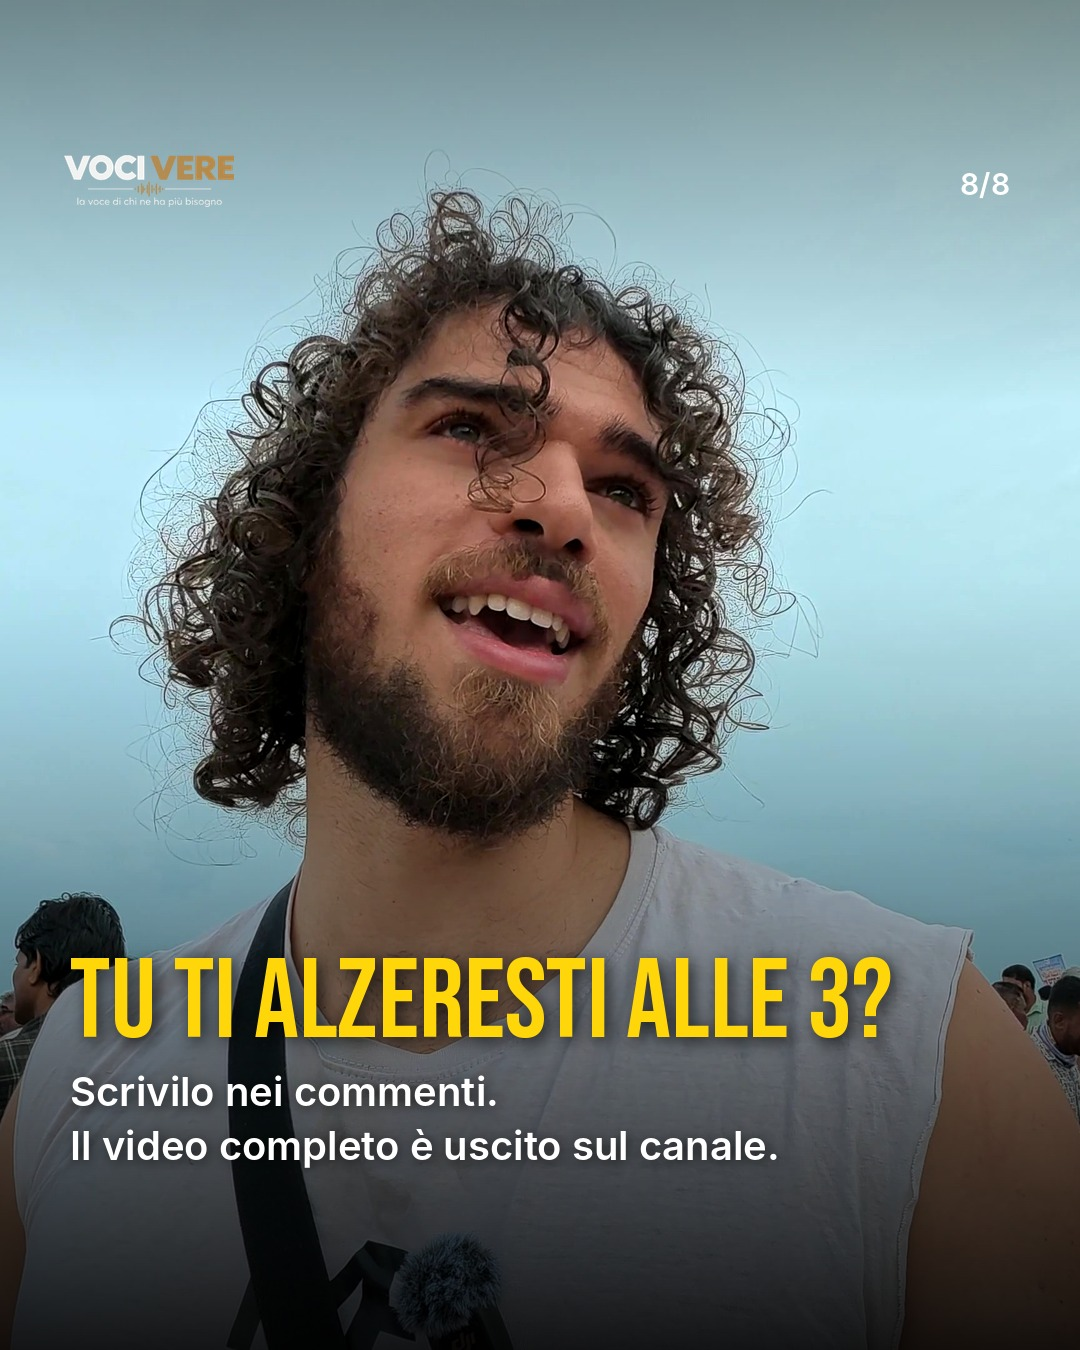
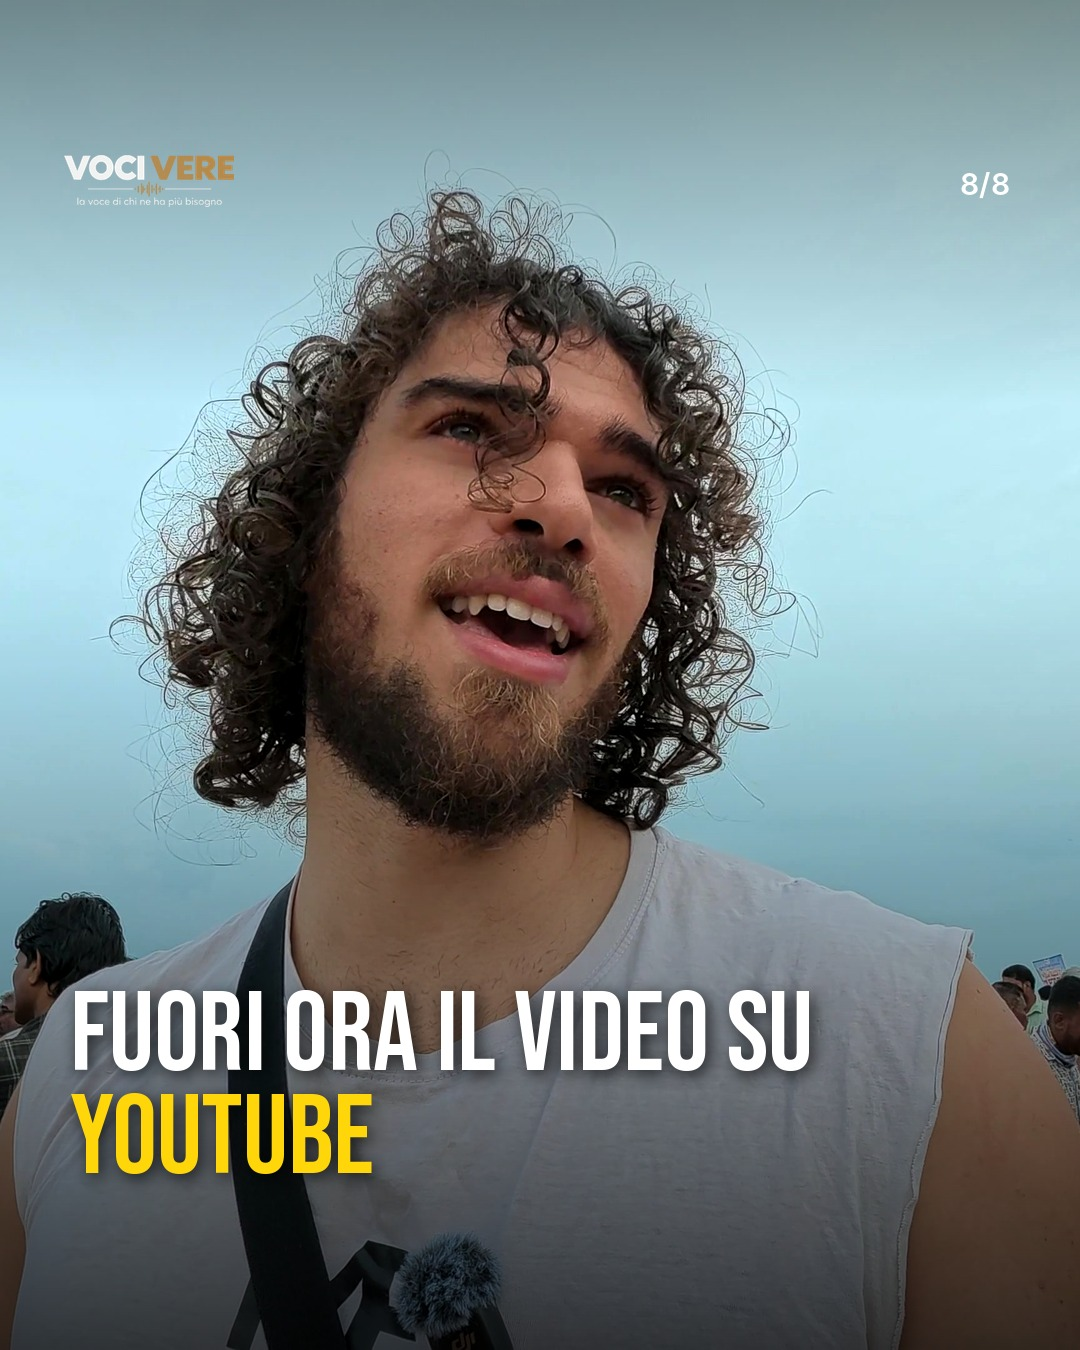
Caroselli: ultima slide solo 'Fuori ora il video su YouTube'
Claude-Session: https://claude.ai/code/session_01NyVAZXcjQG4pUS9Hfqt7Ga

Changed region(s): [[0.0, 0.6844, 1.0, 1.0]]

diff --git a/copioni/caroselli/carosello.py b/copioni/caroselli/carosello.py
@@ -98,8 +98,7 @@ build('mercato',[
       body='Ghiaccio nei cesti: il pesce deve partire finché è fresco.'),
  dict(photo=C+'m/m_136.jpg',crop=(.43,0,1.0,0.86),title='«Un posto in pace»',hl=YEL,
       body='Cristiani, induisti, musulmani: qui vivono insieme, ci racconta.'),
- dict(photo='work/thumb/m_3m47.5.jpg',crop=(.5,.5,1.0,1.0),title='Tu ti alzeresti alle 3?',hl=YEL,
-      body='Scrivilo nei commenti.\nIl video completo è uscito sul canale.'),
+ dict(photo='work/thumb/m_3m47.5.jpg',crop=(.5,.5,1.0,1.0),title='Fuori ora il video su YouTube',hl=YEL),
 ])
 build('arthunkal',[
  dict(photo=C+'a/a_090733_0296.jpg',cover=True,crop=(.75,.5,1.0,1.0),title='13 km pregando, senza mai fermarsi',hl=YEL,
@@ -116,6 +115,5 @@ build('arthunkal',[
       body='L\'arrivo, la mattina, davanti alla basilica di Sant\'Andrea.'),
  dict(photo=C+'a/a_090825_0298.jpg',crop=(.47,.5,1.0,1.0),title='Un pezzo d\'Italia',hl=YEL,
       body='La chiesa la ricostruisce nel 1584 un gesuita italiano, il «padre bianco». La statua di San Sebastiano arriva da Milano nel 1647.'),
- dict(photo=C+'a/a_093557_0316.jpg',crop=(.45,.5,1.0,1.0),title='Cammineresti 13 km di notte pregando?',hl=YEL,
-      body='Scrivi SÌ o NO nei commenti.\nIl video completo è uscito sul canale.'),
+ dict(photo=C+'a/a_093557_0316.jpg',crop=(.45,.5,1.0,1.0),title='Fuori ora il video su YouTube',hl=YEL),
 ])

diff --git a/regole/copy.md b/regole/copy.md
@@ -53,7 +53,7 @@ Consegna di Copy per ogni lungo, appena Montaggio chiude il montato (Manuel, 25/
 Carosello di ogni lungo (Manuel, 25/10): 7-8 immagini 4:5 (1080x1350) dal girato vero, logo Voci Vere piccolo in
 alto a sinistra, testo e logo dentro il quadrato centrale 1080x1080 (YouTube ritaglia a quadrato). Slide 1: foto
 forte + gancio di 3-7 parole + "Scorri"; slide 2 che regge da sola; slide interne: un fatto per slide (titolo 2-5
-parole + una riga, max ~15 parole); ultima: domanda specifica da commentare + "il video completo è uscito sul canale".
+parole + una riga, max ~15 parole); ultima: solo "Fuori ora il video su YouTube" (Manuel, 26/10), niente altro; la domanda da commentare va nella didascalia.
 Didascalia IG + testo del post YouTube + posizione (luogo) in `copioni/caroselli/testi_caroselli.md`. Immagini su
 Drive in `montati/<video>/carosello/`. Generatore: `copioni/caroselli/carosello.py`. Schemi dei competitor:
 `analisi/competitor/caroselli.md`.
